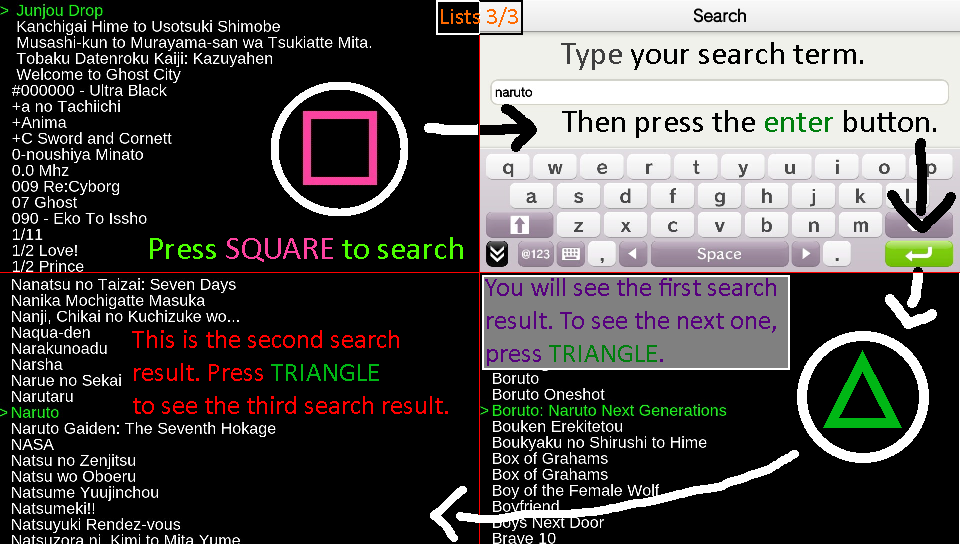
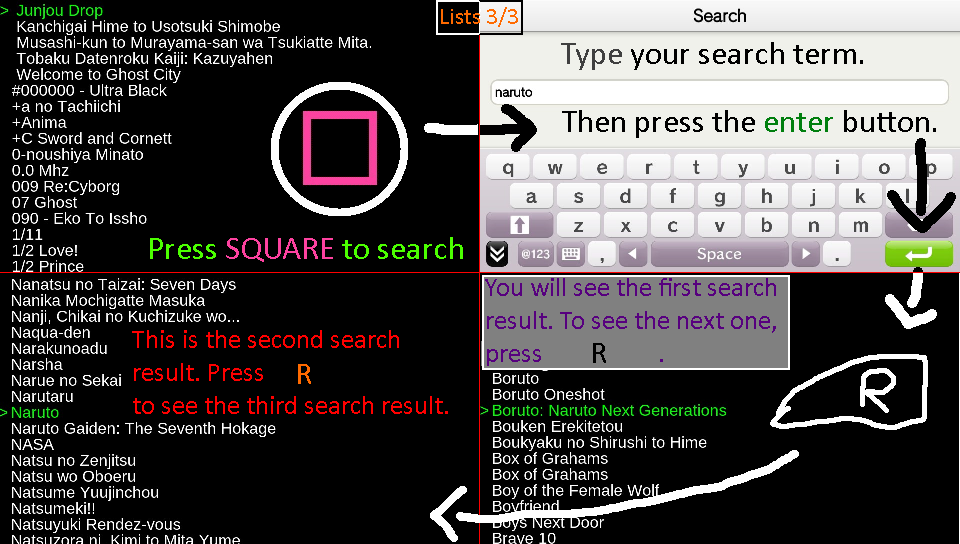
onListMoreInfo

Changed region(s): [[0.7812, 0.5938, 0.9688, 0.875], [0.5625, 0.625, 0.6875, 0.6875], [0.2812, 0.6562, 0.375, 0.7188]]

diff --git a/src/Downloader.h b/src/Downloader.h
@@ -40,7 +40,7 @@
 	#define SCROLLSTATUS_NEEDCHECK 3
 	#define SCROLLSTATUS_ENDWAITPLUSONE 4
 	#define SCROLLSTATUS_ENDWAIT 5
-	
+
 	#include <stdio.h>
 	#include <stdlib.h>
 	#include <unistd.h>
@@ -111,9 +111,19 @@
 	void gooditoa(int _num, char* _buffer, int _uselessBase){
 		sprintf(_buffer, "%d", _num);
 	}
+	void callListMoreInfo(lua_State* passedState, char _listNumber, int _listEntry){
+		if (lua_getglobal(passedState,"onListMoreInfo")!=LUA_TFUNCTION){
+			lua_pop(L,1);
+			return;
+		}
+		lua_pushnumber(passedState,_listNumber);
+		lua_pushnumber(passedState,_listEntry);
+		lua_call(passedState, 2, 0);
+		return;
+	}
 	// Returns -1 if user cancels
 	// Returns 1 based selection
-	intptr_t showList(char** _currentList, int _listSize, int _startingSelection, NathanLinkedList* _multiList){
+	intptr_t showListLua(char** _currentList, int _listSize, int _startingSelection, NathanLinkedList* _multiList, lua_State* passedState, int _luaListId){
 		ControlsEnd();
 		int i;
 		char _optionsPerScreen;
@@ -206,7 +216,7 @@
 					}
 					_scrollStatus = SCROLLSTATUS_NEEDCHECK;
 				}
-			}else if (WasJustPressed(SCE_CTRL_TRIANGLE)){
+			}else if (WasJustPressed(SCE_CTRL_RTRIGGER)){
 				if (_lastUserSearchTerm!=NULL){
 					for (i=_lastSearchResult!=_listSize-1 ? _lastSearchResult+1 : 0;i<_listSize;i++){
 						if (strcasestr(_currentList[i],_lastUserSearchTerm)!=NULL){
@@ -237,6 +247,10 @@
 					}
  					_valueToReturn = (intptr_t)(_multiList);
 					break;
+				}
+			}else if (WasJustPressed(SCE_CTRL_TRIANGLE)){ // List more info
+				if (passedState!=NULL){
+					callListMoreInfo(passedState,_luaListId,_selection+1);
 				}
 			}
 			ControlsEnd();
@@ -327,6 +341,9 @@
 		}
 		ControlsEnd();
 		return _valueToReturn;
+	}
+	intptr_t showList(char** _currentList, int _listSize, int _startingSelection, NathanLinkedList* _multiList){
+		showListLua(_currentList,_listSize,_startingSelection,_multiList,NULL,0);
 	}
 	// _userInputNumber should be ONE BASED
 	char* getUserInputResultName(int _userInputNumber){
@@ -553,8 +570,10 @@
 			lua_call(L,0,1); // 1 result
 		}
 		// If returned false, exit.
-		if (lua_toboolean(L,-1)==0){
-			return;
+		if (lua_isboolean(L,-1)==1){
+			if (lua_toboolean(L,-1)==0){
+				return;
+			}
 		}
 		lua_pop(L,1);
 
@@ -923,7 +942,7 @@
 						// Code specific to list or multi list.
 						if (_listEntries[_currentList]!=NULL){
 							if (inputTypeQueue[_currentList]==INPUTTYPELIST){
-								int _tempUserAnswer = showList(_listEntries[_currentList],_listEntriesLength[_currentList],*((int*)userInputResults[_currentList])-1,NULL); // Subtract 1 from starting index because result was one based.
+								int _tempUserAnswer = showListLua(_listEntries[_currentList],_listEntriesLength[_currentList],*((int*)userInputResults[_currentList])-1,NULL,passedState,_currentList+1); // Subtract 1 from starting index because result was one based.
 								if (_tempUserAnswer!=-1){
 									*((int*)(userInputResults[_currentList]))=_tempUserAnswer;
 									//int* _noob = malloc(4);
@@ -932,7 +951,7 @@
 								}
 								callListFinish(passedState,_currentList+1);
 							}else if (inputTypeQueue[_currentList]==INPUTTYPELISTMULTI){
-								NathanLinkedList* _tempUserAnswer = (NathanLinkedList*)showList(_listEntries[_currentList],_listEntriesLength[_currentList],((int*)(((NathanLinkedList*)userInputResults[_currentList])->memory))!=NULL ? *((int*)(((NathanLinkedList*)userInputResults[_currentList])->memory))-1 : 0,(NathanLinkedList*)userInputResults[_currentList]);
+								NathanLinkedList* _tempUserAnswer = (NathanLinkedList*)showListLua(_listEntries[_currentList],_listEntriesLength[_currentList],((int*)(((NathanLinkedList*)userInputResults[_currentList])->memory))!=NULL ? *((int*)(((NathanLinkedList*)userInputResults[_currentList])->memory))-1 : 0,(NathanLinkedList*)userInputResults[_currentList],passedState,_currentList+1);
 								if ((intptr_t)_tempUserAnswer!=(intptr_t)-1){
 									userInputResults[_currentList] = _tempUserAnswer;
 									if (((NathanLinkedList*)userInputResults[_currentList])->memory!=NULL){

diff --git a/src/photo.h b/src/photo.h
@@ -73,6 +73,10 @@ void photoViewer(CrossTexture* _passedTexture){
 				return;
 			}
 		}
+		if (WasJustPressed(SCE_CTRL_CIRCLE)){
+			FreeTexture(tex);
+			break;
+		}
 		ControlsEnd();
 		FpsCapWait();
 	}
@@ -300,6 +304,7 @@ void photoViewer(CrossTexture* _singleTexture) {
 		char* _currentRelativeFilename=NULL;
 		int _initialLoadResult = loadNewPage(&tex,&_currentRelativeFilename,0);
 		if (_initialLoadResult==LOADNEW_DIDNTLOAD){
+			free(buffer);
 			return;
 		}	
 	}
@@ -354,6 +359,7 @@ void photoViewer(CrossTexture* _singleTexture) {
 			if (_loadResult==LOADNEW_LOADEDNEW){
 				resetImageInfo(tex, &width, &height, &x, &y, &rad, &zoom, &mode, &time);
 			}else if (_loadResult==LOADNEW_FINISHEDMANGA){
+				free(buffer);
 				return;
 			}
 		}
